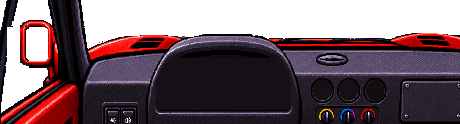
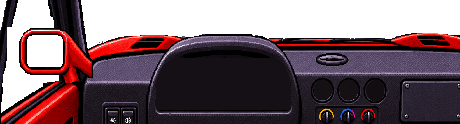
v0.53.10: Fúria F4 com o retrovisor da arte anterior (inteiro no celular, vidro funcionando)
Claude-Session: https://claude.ai/code/session_01MLD9VR7gkmY4w6a9beZcp6

Changed region(s): [[0.0304, 0.1452, 0.213, 0.6774], [0.0, 0.5806, 0.0304, 0.629], [0.0, 0.6774, 0.0304, 0.7016]]

diff --git a/src/cockpit.ts b/src/cockpit.ts
@@ -143,7 +143,7 @@ const COCKPIT_ART: Record<string, CockpitArt> = {
   // e a do console a 0,774 (F4C), com o passo dos três relógios da arte
   f40: { dash: dashF40Png, top: topF40Png, wheel: wheelF40Png, dashMask: cp('f40-dash-mask'), topMask: cp('f40-top-mask'),
     pivot: [119.2, 120], wheelTop: 0, tells: null,
-    glass: { at: [32, 119], thr: 256 }, pod: { x: 228, y: 33, r: 9, face: 'black', bezel: 'black', lit: 'green' }, radar: [205, 35], glow: '110,230,140', glowK: 0.5,
+    glass: { at: [36, 127], thr: 256 }, pod: { x: 228, y: 33, r: 9, face: 'black', bezel: 'black', lit: 'green' }, radar: [205, 35], glow: '110,230,140', glowK: 0.5,
     // à noite números e marcações acendem em verde (o fundo preto continua preto), ponteiros também
     facesLit: '110,236,140', litNeedles: true,
     faces: [{ src: cp('f40-cluster'), src2: cp('f40-cluster-2x'), ...F4Q.box(44.5, 7.5, 169, 84) },

diff --git a/tools/ref/f40_cockpit2.py b/tools/ref/f40_cockpit2.py
@@ -64,11 +64,18 @@ TRI = [(115, 50), (122, 100), (153, 200), (178, 290), (52, 290), (63, 250), (75,
 FAR = [(0, 0), (70, 0), (48, 100), (26, 200), (5, 300), (0, 300)]  # vidro à esquerda da moldura da porta
 MIR_SEED = (100, 370)           # vidro do retrovisor externo
 MIR_GLASS = (25, 322, 171, 427, 12)  # o vidro (cantos redondos), medido
+OLD_MIR_AT = (100, 7)           # canto do recorte (linha, coluna do empilhado): moldura esquerda na col 19, a de baixo encostando no canto da coluna com a porta
+MIR_FRONT = os.environ.get('MIR_BEHIND') is None  # o retrovisor inteiro na frente da parte de baixo da coluna
+MIR_MAX_COL = 100                # não passa daqui (à direita da coluna é o para-brisa)
+WS_PROBE = (200, 60)            # um ponto do para-brisa (col, linha)
+MIR_ERASE_TOP = 288             # o retrovisor da arte nova começa aqui (arte)
+MIR_TOP_SEED = (100, 306)       # um ponto da moldura de cima do retrovisor da arte nova
+PILLAR_EDGE = [(190, 290), (196, 340), (202, 400), (207, 450), (211, 495)]  # borda esquerda da coluna (arte)
 MIR_ROWS = (95, 143)            # retrovisor no empilhado (do contorno de cima ao de baixo)
 MIR_FRAME_B = 141               # última linha vermelha da moldura de baixo (abaixo é o braço)
 MIR_A, MIR_R = 44, 52           # moldura direita: do começo da curva dos cantos (a) à borda de fora (R)
 MIR_X0 = 20                     # borda de fora da moldura nova (no celular a tela começa na coluna 18)
-BAR = [(45, 300), (32, 375), (18, 450), (10, 470)]  # borda direita da barra escura da moldura da porta (arte)
+BAR = [(52, 280), (45, 300), (32, 375), (18, 450), (10, 470), (4, 520)]  # borda direita da barra escura da moldura da porta (arte)
 # miolo preto do capuz do quadro e os relógios do console
 HOOD = [(600, 428), (630, 418), (975, 418), (1000, 428), (1015, 440), (1030, 470), (1040, 500), (1040, 565),
         (1032, 581), (568, 581), (558, 568), (555, 500), (565, 470), (585, 440)]
@@ -142,6 +149,36 @@ def glass_mask(nw):
     return g, mir, roof
 
 
+def erase_mirror(nw, g):
+    """o retrovisor da arte nova (carcaça, vidro, braço e pé) sai: o que fica à esquerda da borda da coluna
+    vira janela; o que o braço cobria da borda da coluna vira o contorno preto dela"""
+    H, W = nw.shape[:2]
+    yy, xx = np.mgrid[0:H, 0:W]
+    # tudo entre a barra escura da moldura da porta, a borda da coluna, o alto do retrovisor e a soleira
+    sill = np.interp(xx, [0, 150, 260, 400], [512, 498, 486, 470])
+    bx, by = zip(*BAR)
+    bar = np.interp(yy, by, bx)
+    er = (yy > MIR_ERASE_TOP) & (yy < sill - 2) & (xx > bar + 1) & (xx < 260)
+    px, py = zip(*PILLAR_EDGE)
+    edge = np.interp(yy, py, px)
+    out = nw.copy()
+    win = er & (xx < edge)
+    rim = er & (xx >= edge) & (xx < edge + 9)
+    out[rim] = (14, 13, 17)
+    g = (g | win) & ~rim
+    return out, g
+
+
+def mir_glass(H, W):
+    x0, y0, x1, y1, r = MIR_GLASS
+    mm = np.zeros((H, W), np.uint8)
+    cv2.rectangle(mm, (x0, y0 + r), (x1, y1 - r), 1, -1)
+    cv2.rectangle(mm, (x0, y0), (x1 - r, y1), 1, -1)
+    for cx, cy in ((x1 - r, y0 + r), (x1 - r, y1 - r)):
+        cv2.circle(mm, (cx, cy), r, 1, -1)
+    return mm > 0
+
+
 def clean(nw, roof):
     out = nw.copy()
     x0, x1 = STALK
@@ -191,6 +228,7 @@ def main():
     ww = np.array(Image.open(os.path.join(d, 'cab-wheel.png')).convert('RGB'))
     g, mir, roof = glass_mask(nw)
     nw = clean(nw, roof)
+    nw, g = erase_mirror(nw, g)
     A = ~g
     H, W = nw.shape[:2]
     paint_zone = np.zeros((H, W), bool)
@@ -228,48 +266,25 @@ def main():
     for i in range(1, n):  # ilhas opacas soltas no vidro (até 40 px)
         if stt[i, cv2.CC_STAT_AREA] <= 40:
             st_al[lab == i] = False
-    # retrovisor externo: moldura esquerda nova, refletida da direita (mirror_complete.py flip); só a
-    # moldura (a..R), sem o braço que sai dela mais à direita
-    if os.environ.get('NOFLIP') is None:
-        ya, yb = MIR_ROWS
-        rows = slice(ya, yb + 1)
-        o_rgb, o_al, o_pz = st_rgb.copy(), st_al.copy(), st_pz.copy()
-        # à esquerda da moldura nova o retrovisor da arte (moldura de cima e de baixo) vira janela; a
-        # barra escura da moldura da porta fica (borda direita medida na arte)
-        bx, by = zip(*BAR)
-        for y in range(ya, yb + 1):
-            yart = (y + 0.5) * PXH + (y0d - EXT * PXH)
-            c0 = int(np.ceil(np.interp(yart, by, bx) * S + 0.5))
-            st_al[y, c0:MIR_X0] = False
-        hsv0 = cv2.cvtColor(np.ascontiguousarray(st_rgb[rows, :MIR_X0]), cv2.COLOR_RGB2HSV_FULL).astype(int)
-        h0 = hsv0[..., 0] * 360 / 256
-        st_al[rows, :MIR_X0] &= ~(((h0 < 20) | (h0 > 335)) & (hsv0[..., 1] > 60))  # pontas da moldura velha
-        # só a moldura vermelha e o contorno escuro colado nela (a coluna e o braço ficam de fora)
-        hsv = cv2.cvtColor(np.ascontiguousarray(o_rgb), cv2.COLOR_RGB2HSV_FULL).astype(int)
-        hue = hsv[..., 0] * 360 / 256
-        red = o_al & ((hue < 20) | (hue > 335)) & (hsv[..., 1] > 60) & (hsv[..., 2] > 40)
-        red[MIR_FRAME_B + 1:] = False
-        red[MIR_FRAME_B - 1:, MIR_R - 3:] = False  # a ponta do braço que encosta no canto de baixo
-        frame = cv2.dilate(red.astype(np.uint8), np.ones((3, 3), np.uint8)) > 0
-        for x in range(MIR_A, MIR_R + 1):
-            c = MIR_X0 + (MIR_R - x)
-            for y in range(ya, yb + 1):
-                if frame[y, x]:
-                    st_rgb[y, c] = o_rgb[y, x] if red[y, x] else (16, 15, 18)
-                    st_al[y, c], st_pz[y, c] = True, red[y, x]
-                else:
-                    st_al[y, c] = False
-        # canto de baixo: o contorno do braço refletido (pontinha escura fora da curva) sai
-        for y in range(MIR_FRAME_B - 1, yb + 1):
-            for c in range(MIR_X0, MIR_X0 + 3):
-                if not st_pz[y, c] and not st_pz[y, c + 1]:
-                    st_al[y, c] = False
-        # embaixo da moldura de baixo só fica o contorno que encosta no vermelho logo acima
-        nr = MIR_R - MIR_A + 1
-        for y in range(MIR_FRAME_B + 1, yb + 1):
-            for c in range(MIR_X0, MIR_X0 + nr):
-                if st_al[y, c] and not st_pz[y - 1, c] and not (st_al[y - 1, c] and y - 1 <= MIR_FRAME_B + 1):
-                    st_al[y, c] = False
+    # retrovisor externo: o da cabine anterior (arte ca1dd71f, v0.53.7), na mesma escala, recortado em
+    # f40_old_mirror.png (alfa 255 = peça, 1 = vidro); colado só sobre a janela da porta (a coluna e a porta
+    # ficam na frente dele, como no carro: ele é preso por fora, atrás da coluna)
+    om = np.array(Image.open(os.path.join(os.path.dirname(__file__), 'f40_old_mirror.png')).convert('RGBA'))
+    n, lab = cv2.connectedComponents((~st_al).astype(np.uint8), connectivity=4)
+    winreg = (lab > 0) & (lab != lab[WS_PROBE[1], WS_PROBE[0]])   # janelas da porta (não o para-brisa)
+    oy, ox = OLD_MIR_AT
+    for j in range(om.shape[0]):
+        for i in range(om.shape[1]):
+            y, x = oy + j, ox + i
+            if om[j, i, 3] == 0 or not (0 <= y < st_al.shape[0] and 0 <= x < MIR_MAX_COL):
+                continue
+            if not (MIR_FRONT or winreg[y, x]):
+                continue
+            if om[j, i, 3] == 255:
+                st_rgb[y, x], st_al[y, x], st_pz[y, x] = om[j, i, :3], True, True
+            else:  # vidro
+                st_al[y, x], st_pz[y, x] = False, False
+    # máscara de pintura: só o vermelho da peça colada (o contorno escuro não)
     pm = red_mask(st_rgb, st_al) & st_pz
     for name, sl in (('top', slice(0, EXT)), ('dash', slice(EXT, None))):
         Image.fromarray(np.dstack([st_rgb[sl], st_al[sl].astype(np.uint8) * 255]), 'RGBA').save(os.path.join(out, f'f40-{name}.png'), optimize=True)
